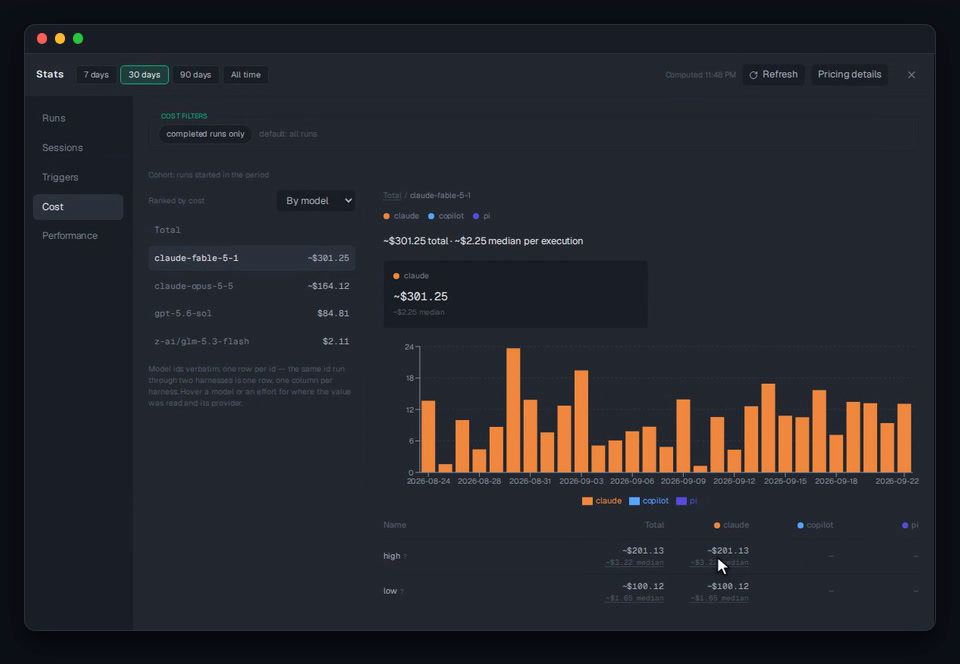
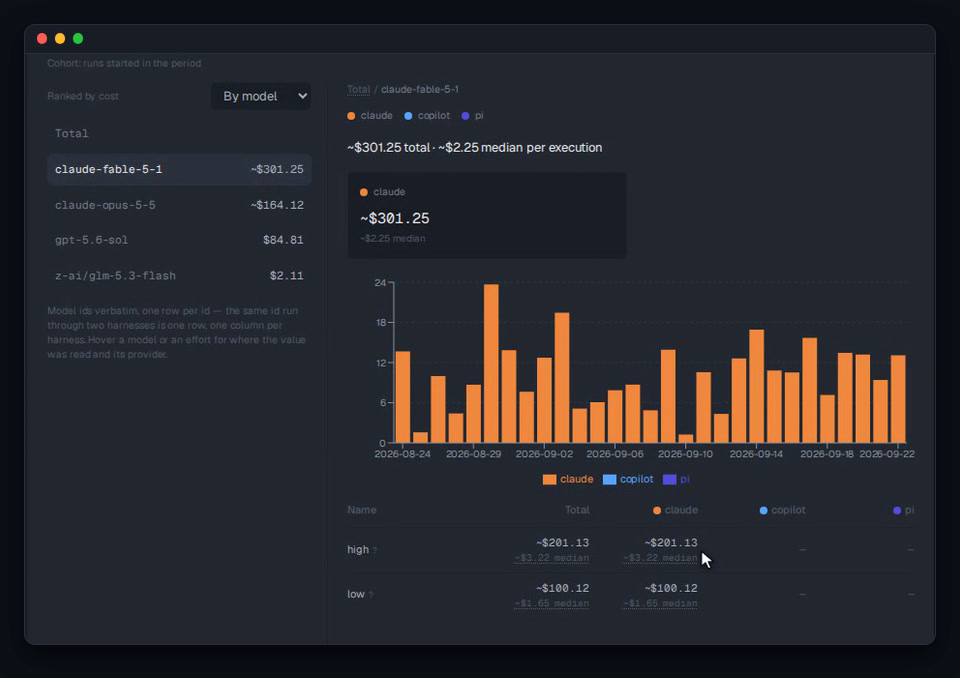
XBG5Cxkn iter-2: completed

diff --git a/scripts/readme-media/README.md b/scripts/readme-media/README.md
@@ -27,7 +27,7 @@ For each scene, in its own throwaway instance:
    plus a `.claude.json` holding only the account block and the fixture repo's trust. Every file is
    recorded in `state.json` **before** it is written.
 3. **Mocked history** (`needs: ["history"]`, `lib/history-plan.mjs` + `lib/history-write.mjs`). About
-   210 runs of `implement-review` over the last 30 days, with synthetic claude/copilot/pi transcripts,
+   About 205 runs of `implement-review` over the last 30 days, with synthetic claude/copilot/pi transcripts,
    a manual price table and 100 fires of the (disabled) `prod-health-check` trigger. The plan is pure
    and deterministic (seeded); its targets are tested (`test/history-plan.test.mjs`) and so is the
    Stats API reading it (`test/demo-instance.test.mjs`).
@@ -36,7 +36,10 @@ For each scene, in its own throwaway instance:
    stretches build the timeline.
 5. **Montage** (`lib/montage.mjs`). It keeps the timeline, cuts the waits, crops, and bakes in the
    window chrome (rounded corners, traffic lights, shadow). Then it encodes the GIF (15 fps, 960 px
-   wide by default) and the poster, which is the last frame, i.e. the end state.
+   wide by default) and the poster, which is the last frame, i.e. the end state. ffmpeg runs
+   asynchronously, so a Ctrl+C mid-encode is handled at once and kills it. Each variant is encoded
+   under `.work/` and lands in the review folder together with its manifest entry: an interrupted
+   run leaves the previous GIF and its entry, never a new GIF under a stale entry.
 6. **Teardown**. The daemon is stopped, the demo tmux server is killed (every agent with it), the
    auth files are wiped and the root is removed. This happens after each scene, and on any exit:
    failure, uncaught error, Ctrl+C, SIGTERM. A run killed with SIGKILL leaves its `state.json`, and
@@ -106,12 +109,15 @@ What `play(ctx)` gets:
 
 Whatever is not in a marker window, a `keep`, a `fast` or a `hold` is cut. Aim for 8 to 15 s; the
 manifest warns outside that range, and a short montage is frozen on its last frame up to 8 s.
-Record the scene, open both GIFs from `.readme-media/`, pick one in `selection.txt`, then
+A row GIF shows a ~480 px cell: crop on the panel that matters so its text reads at about 1:1
+(crop width close to the GIF's content width, ~910 px); a narrower `viewport` lets the page reflow
+into that crop. Record the scene, open both GIFs from `.readme-media/`, pick one in `selection.txt`, then
 `make readme-media-publish`.
 
 ## Tests
 
 `make test` runs `node --test scripts/readme-media/test/*.test.mjs`. That covers the history plan,
-the cut plan, selection and publication, scene discovery, the manifest, and a real demo instance
+the cut plan, selection and publication, scene discovery, the manifest (and a variant's atomic
+landing), a SIGINT mid-encode, and a real demo instance
 (Stats API ratios, teardown after success / Ctrl+C / crash / hard kill; needs `cargo build`). The
 full recording of the Stats scene is opt-in: `READMEMEDIA_E2E=1`.
